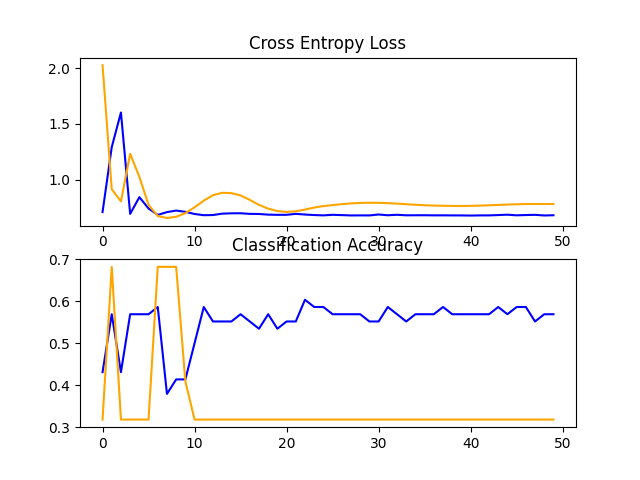
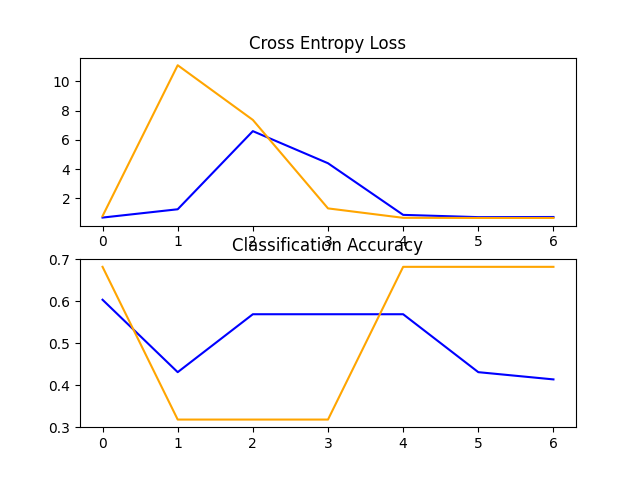
few tuning

diff --git a/logisticRegression/breast_cancer.py b/logisticRegression/breast_cancer.py
@@ -26,8 +26,8 @@ for i in range(folds):
     X_train = train.iloc[:, 0: n_cols - 1] # Dataframe
     y_train = train.iloc[:, n_cols - 1] # Series
     lr = LogisticRegression(fit_intercept = True)
-    #lr.fit_autograd_lr(X_train, y_train, regularisation="l1", lamda=0.01)
-    lr.fit_unregularised_lr_vec(X_train, y_train)
+    lr.fit_autograd_lr(X_train, y_train)
+    #lr.fit_unregularised_lr_vec(X_train, y_train)
     y_hat = lr.predict(X_validation)
     if i == 0:
         lr.boundary(X_validation, y_hat)

diff --git a/Photos Clf/aug_vgg.py b/Photos Clf/aug_vgg.py
@@ -59,7 +59,7 @@ def run_test_harness():
 		class_mode='binary', batch_size=64, target_size=(200, 200))
 	# fit model
 	history = model.fit_generator(train_it, steps_per_epoch=len(train_it),
-		validation_data=test_it, validation_steps=len(test_it), epochs=50, verbose=0)
+		validation_data=test_it, validation_steps=len(test_it), epochs=7, verbose=0)
 	# evaluate model
 	_, acc = model.evaluate_generator(test_it, steps=len(test_it), verbose=0)
 	print('> %.3f' % (acc * 100.0))
